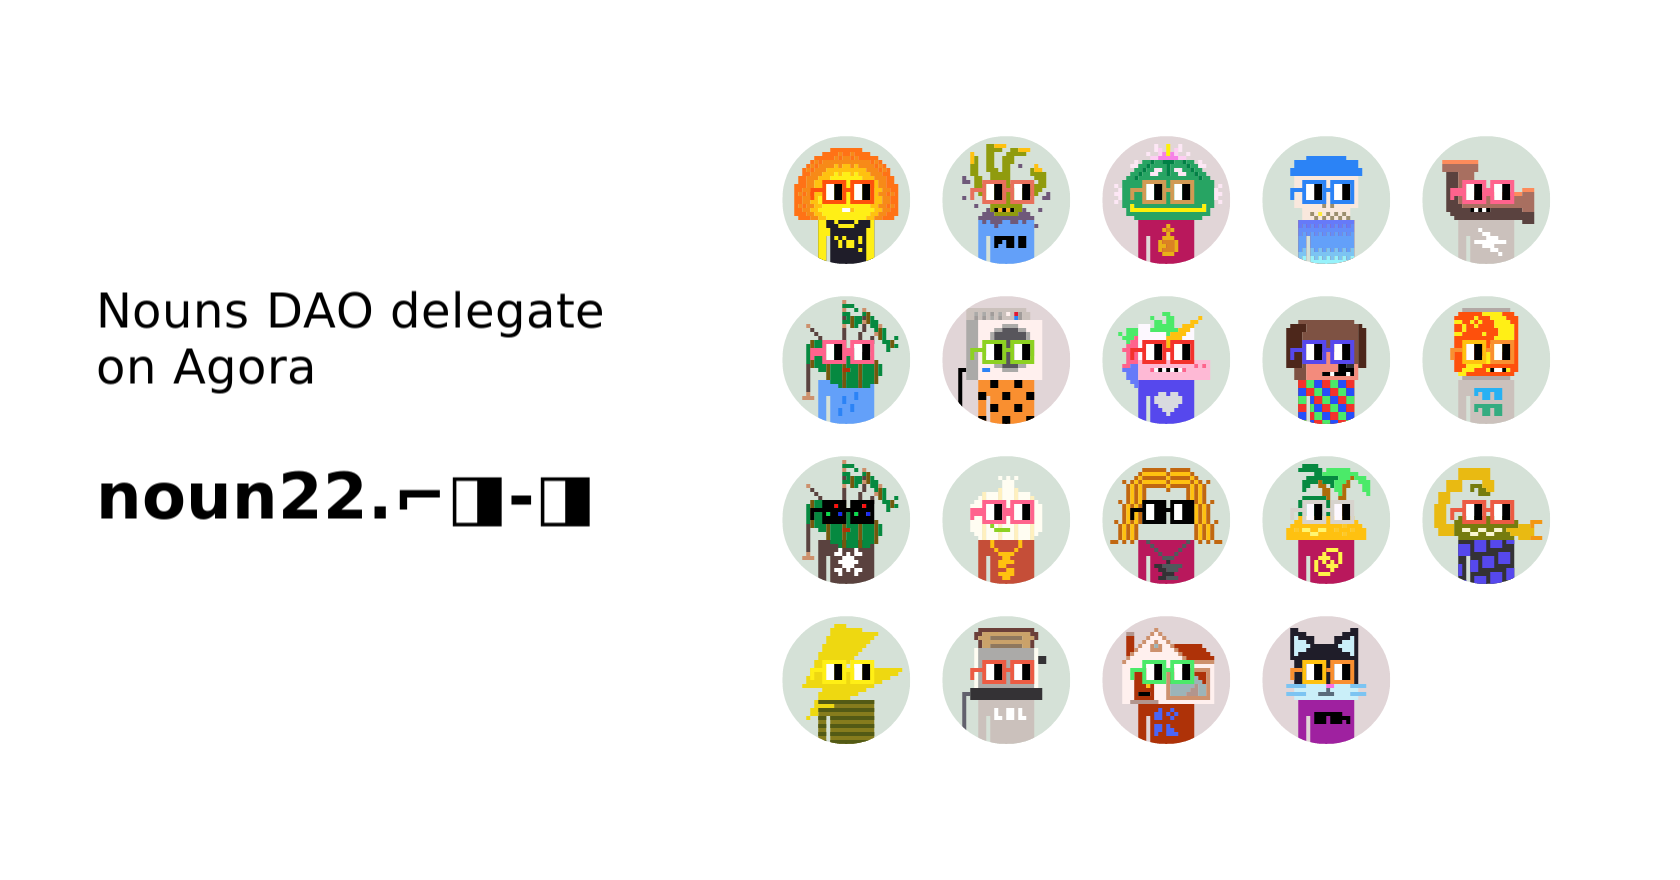
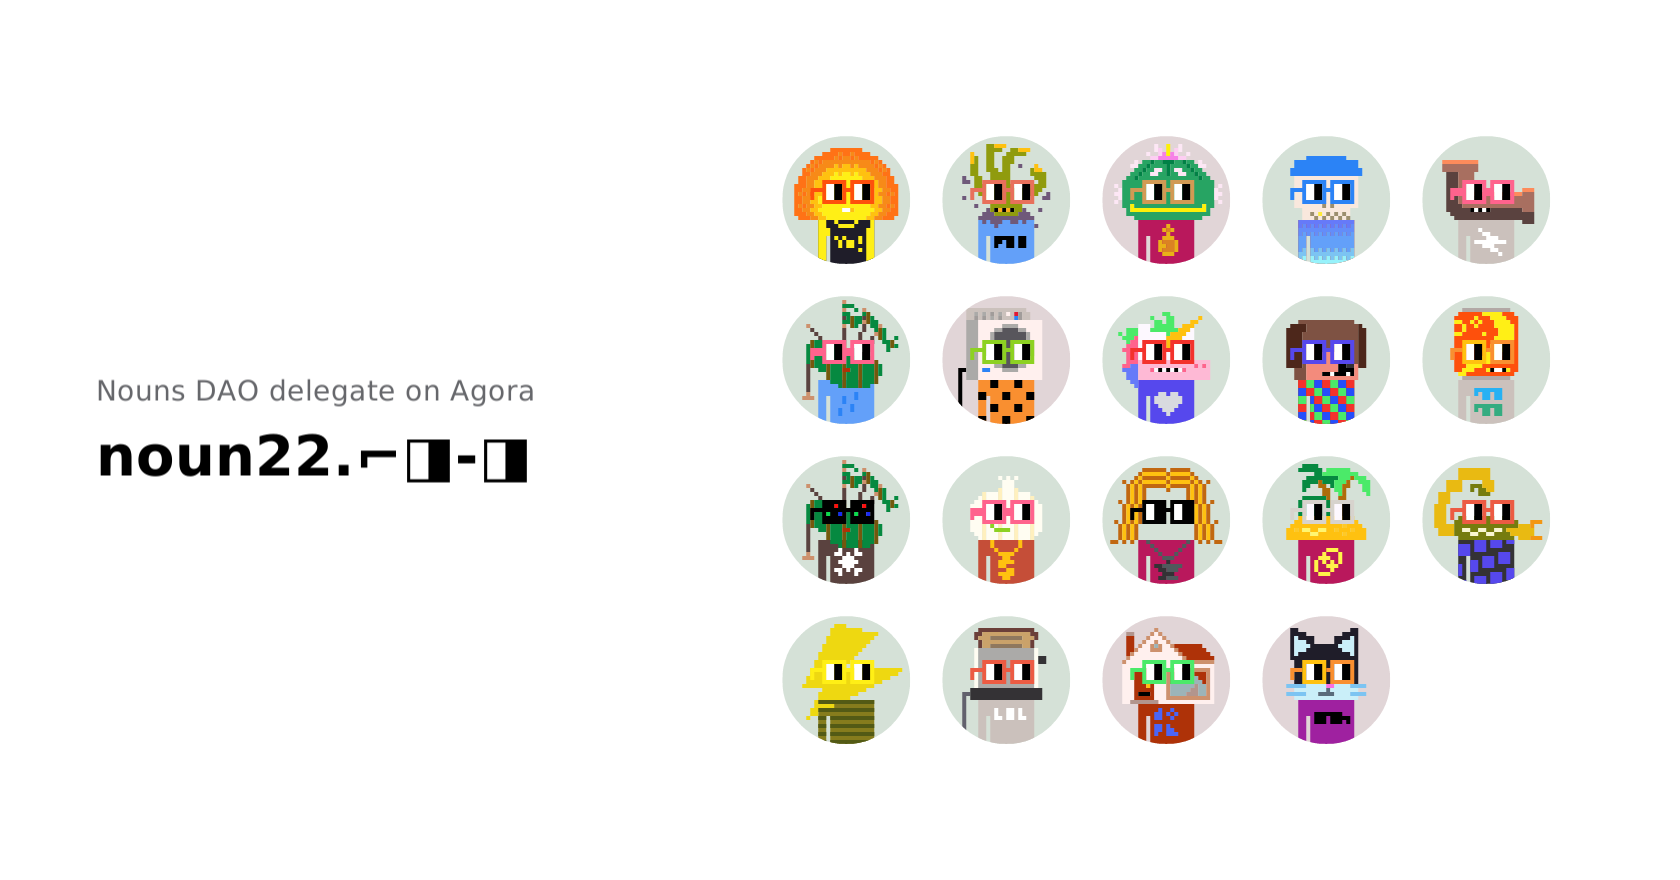
tweak colors and spacing (#16)

Changed region(s): [[0.0619, 0.4909, 0.3714, 0.6136], [0.0619, 0.3989, 0.3405, 0.4602], [0.0619, 0.3375, 0.3714, 0.3989]]

diff --git a/packages/render-opengraph/src/lib.rs b/packages/render-opengraph/src/lib.rs
@@ -11,7 +11,7 @@ use fontdue::layout::{
 };
 use fontdue::Font;
 use png::BitDepth;
-use raqote::SolidSource;
+use raqote::{Color, SolidSource};
 use raqote::{DrawOptions, DrawTarget, PathBuilder, Source};
 use std::f32::consts::PI;
 use std::io;
@@ -100,7 +100,7 @@ pub fn draw_opengraph_image_inner(
     let mut address_text_layout = largest_text_layout_fitting(
         max_text_width * scale,
         &display_text(&address.resolved_name),
-        (16f32 * scale) as u32,
+        (14f32 * scale) as u32,
         (10f32 * scale) as u32,
         &dependencies.fonts[..],
     );
@@ -117,7 +117,7 @@ pub fn draw_opengraph_image_inner(
     });
     title_text_layout.append(
         &dependencies.fonts[..],
-        &TextStyle::new("Nouns DAO delegate on Agora", 12.0 * scale, 0),
+        &TextStyle::new("Nouns DAO delegate on Agora", 7.0f32 * scale, 0),
     );
 
     let mut dt = DrawTarget::new((width * scale) as i32, (height * scale) as i32);
@@ -138,7 +138,7 @@ pub fn draw_opengraph_image_inner(
     );
 
     let offset_x = gap * scale;
-    let spacing = 2.0 * base_grid;
+    let spacing = 0.5 * base_grid;
     let y = (height * scale / 2f32)
         - ((address_text_layout.height() + 2.0 * spacing * scale + title_text_layout.height())
             / 2f32);
@@ -151,6 +151,7 @@ pub fn draw_opengraph_image_inner(
         max_text_width * scale,
         &mut title_text_layout,
         &dependencies.fonts[..],
+        Color::new(0, 102, 103, 107),
     );
 
     dt.set_transform(&transform.then_translate(Vector2D::new(
@@ -163,6 +164,7 @@ pub fn draw_opengraph_image_inner(
         max_text_width * scale,
         &mut address_text_layout,
         &dependencies.fonts[..],
+        Color::new(0, 0, 0, 0),
     );
 
     dt.set_transform(&Transform2D::identity());

diff --git a/packages/render-opengraph/src/text.rs b/packages/render-opengraph/src/text.rs
@@ -2,14 +2,15 @@ use fontdue::layout::{
     CoordinateSystem, HorizontalAlign, Layout, LayoutSettings, TextStyle, WrapStyle,
 };
 use fontdue::Font;
-use raqote::Image;
-use raqote::{AntialiasMode, BlendMode, DrawOptions, DrawTarget};
+use raqote::{AntialiasMode, BlendMode, DrawOptions, DrawTarget, SolidSource};
+use raqote::{Color, Image};
 
 pub fn draw_text_layout(
     dt: &mut DrawTarget,
     max_text_width: f32,
     layout: &mut Layout,
     fonts: &[Font],
+    color: Color,
 ) {
     // dt.fill_rect(
     //     0f32,
@@ -31,7 +32,10 @@ pub fn draw_text_layout(
 
         let data = bitmap
             .into_iter()
-            .map(|value| u32::from_le_bytes([0, 0, 0, value]))
+            .map(|value| {
+                SolidSource::from_unpremultiplied_argb(value, color.r(), color.g(), color.b())
+                    .to_u32()
+            })
             .collect::<Vec<u32>>();
 
         dt.draw_image_at(

diff --git a/packages/render-opengraph/src/main.rs b/packages/render-opengraph/src/main.rs
@@ -1,11 +1,11 @@
 use anyhow::Result;
 use graphql_client::{GraphQLQuery, Response};
+use render_opengraph::{
+    draw_opengraph_image_inner, open_graph_render_query, DrawDependencies, OpenGraphRenderQuery,
+};
 use reqwest::Client;
 use std::fs::File;
 use std::io::Write;
-use text_test::{
-    draw_opengraph_image_inner, open_graph_render_query, DrawDependencies, OpenGraphRenderQuery,
-};
 use tokio;
 
 #[tokio::main]
